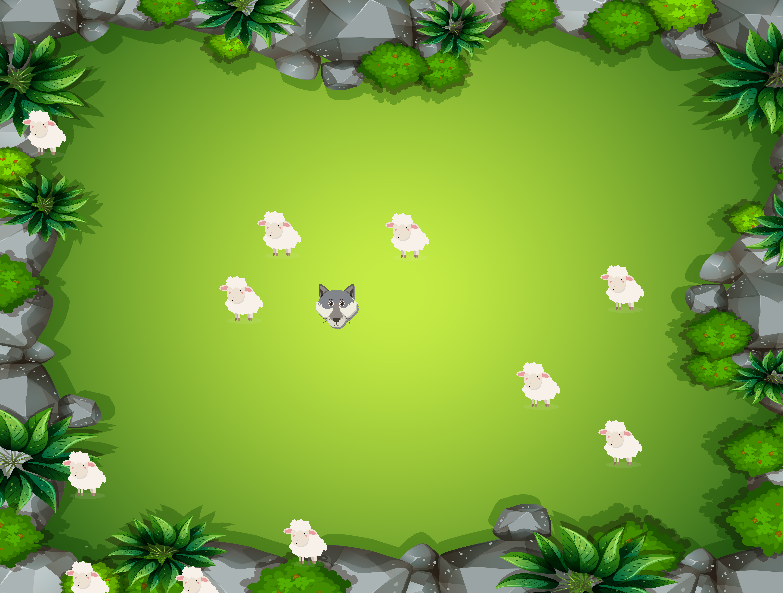
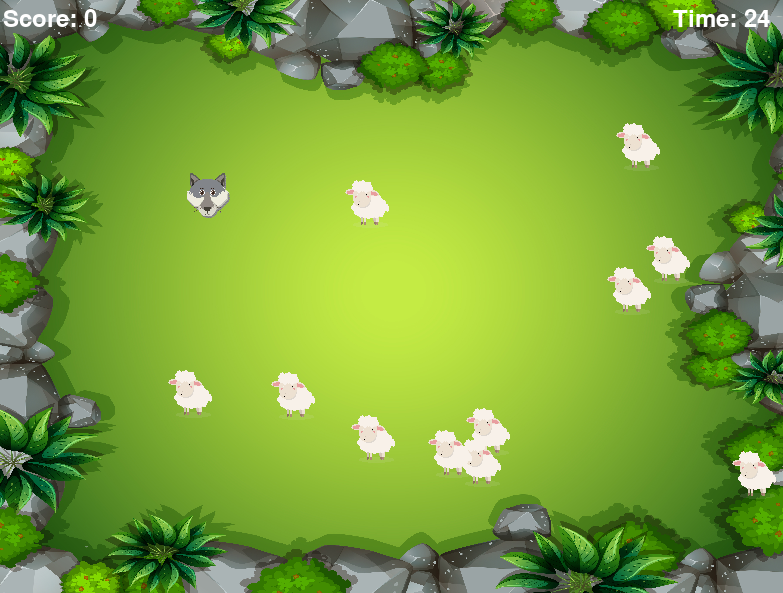
feat: add a score incrementation

diff --git a/wolf_and_sheep.py b/wolf_and_sheep.py
@@ -1,11 +1,12 @@
 import pygame
 import random
 import math
+import time
 
 DIRECTIONS = ('up', 'down', 'left', 'right', 'up_left', 'up_right', 'down_left', 'down_right')
 
 class Sheep:
-    def __init__(self, x, y, speed = 0.1):
+    def __init__(self, x, y, speed=0.1):
         self.x = x
         self.y = y
         self.speed = speed
@@ -14,11 +15,18 @@ class Sheep:
         self.min_speed = 0.1
         self.fleeing = False
         self.image = pygame.transform.scale(pygame.image.load("sheep.png"), (60, 60))
+        self.stop_chance = 0.02  
+        self.stop_duration = 20
+        self.stop_counter = 0 
 
     def draw(self, window):
         window.blit(self.image, (self.x, self.y))
 
     def walk(self):
+        if self.stop_counter > 0:
+            self.stop_counter -= 1
+            return
+
         direction = DIRECTIONS[self.direction_index]
         if direction == 'up':
             self.y -= self.speed
@@ -89,50 +97,42 @@ class Sheep:
             self.x = next_x
             self.y = next_y
 
+    def stop(self):
+        if random.random() < self.stop_chance:
+            self.stop_counter = self.stop_duration
+
 class Wolf:
-    def __init__(self, x, y, speed=0.7):
+    def __init__(self, x, y, speed=1):
         self.x = x
         self.y = y
         self.speed = speed
         self.direction = 'right'
-        self.is_moving = False
         self.image = pygame.transform.scale(pygame.image.load("wolf.png"), (50, 50))
 
     def draw(self, window):
         window.blit(self.image, (self.x, self.y))
 
     def walk(self):
-        if self.is_moving:
-            if self.direction == 'up':
-                self.y -= self.speed
-            elif self.direction == 'down':
-                self.y += self.speed
-            elif self.direction == 'left':
-                self.x -= self.speed
-            elif self.direction == 'right':
-                self.x += self.speed
-            elif self.direction == 'up_left':
-                self.x -= self.speed
-                self.y -= self.speed
-            elif self.direction == 'up_right':
-                self.x += self.speed
-                self.y -= self.speed
-            elif self.direction == 'down_left':
-                self.x -= self.speed
-                self.y += self.speed
-            elif self.direction == 'down_right':
-                self.x += self.speed
-                self.y += self.speed
+        keys = pygame.key.get_pressed() 
+        if keys[pygame.K_UP]:
+            self.y -= self.speed
+            self.direction = 'up'
+        elif keys[pygame.K_DOWN]:
+            self.y += self.speed
+            self.direction = 'down'
+        elif keys[pygame.K_LEFT]:
+            self.x -= self.speed
+            self.direction = 'left'
+        elif keys[pygame.K_RIGHT]:
+            self.x += self.speed
+            self.direction = 'right'
 
-    def catch(self):
-        print("The wolf catches a sheep!")
 
     def check_limits(self, width, height):
         if self.x < 0 or self.x > width - 10:
-            self.direction = 'up' if self.direction != 'up' else 'down'
+            self.x = min(max(self.x, 0), width - 10)
         if self.y < 0 or self.y > height - 10:
-            self.direction = 'left' if self.direction != 'left' else 'right'
-
+            self.y = min(max(self.y, 0), height - 10)
 
 pygame.init()
 pygame.display.set_caption("Wolf and sheep")
@@ -145,29 +145,23 @@ sheep_list = [Sheep(random.randint(50, width - 50), random.randint(50, height - 
 
 wolf = Wolf(random.randint(50, width - 50), random.randint(50, height - 50))
 
+score = 0
+start_time = time.time()
+game_over = False
+
 running = True
 while running:
     for event in pygame.event.get():
         if event.type == pygame.QUIT:
             running = False
-        elif event.type == pygame.KEYDOWN:
-            if event.key == pygame.K_UP:
-                wolf.direction = 'up'
-                wolf.is_moving = True
-            elif event.key == pygame.K_DOWN:
-                wolf.direction = 'down'
-                wolf.is_moving = True
-            elif event.key == pygame.K_LEFT:
-                wolf.direction = 'left'
-                wolf.is_moving = True
-            elif event.key == pygame.K_RIGHT:
-                wolf.direction = 'right'
-                wolf.is_moving = True
 
+    if not game_over:
+        elapsed_time = 30 - (time.time() - start_time) 
+        if elapsed_time <= 0: 
+            game_over = True
 
     window.blit(background_image, (0, 0))
 
-    
     for sheep in sheep_list:
         sheep.walk()
         sheep.check_limits(width, height)
@@ -176,18 +170,43 @@ while running:
         if distance < 100:
             sheep.scare()
             sheep.flee(wolf, width, height)
+            if distance < 50:
+                sheep_list.remove(sheep)
+                score += 1 
         else:
             sheep.calm()
             sheep.speed = max(sheep.speed - 0.05, sheep.min_speed)
 
+        sheep.draw(window)
+        sheep.stop() 
+
     wolf.walk()
     wolf.check_limits(width, height)
-
-    #window.fill((0, 0, 0))
-    for sheep in sheep_list:
-        sheep.draw(window)
     wolf.draw(window)
 
+    font = pygame.font.Font(None, 36)
+    score_text = font.render("Score: " + str(score), True, (255, 255, 255))
+    window.blit(score_text, (10, 10))
+
+    if not game_over:
+        timer_text = font.render("Time: " + str(int(elapsed_time)), True, (255, 255, 255))
+        window.blit(timer_text, (width - 120, 10))
+    else:
+        game_over_text = font.render("Game Over!", True, (255, 0, 0))
+        window.blit(game_over_text, (width // 2 - 80, height // 2))
+
+        restart_text = font.render("Click anywhere to restart", True, (255, 255, 255))
+        window.blit(restart_text, (width // 2 - 150, height // 2 + 50))
+
+
     pygame.display.flip()
+
+    if game_over:
+        for event in pygame.event.get():
+            if event.type == pygame.MOUSEBUTTONDOWN:
+                game_over = False
+                score = 0
+                start_time = time.time()
+                sheep_list = [Sheep(random.randint(50, width - 50), random.randint(50, height - 50)) for _ in range(11)]
 
 pygame.quit()
